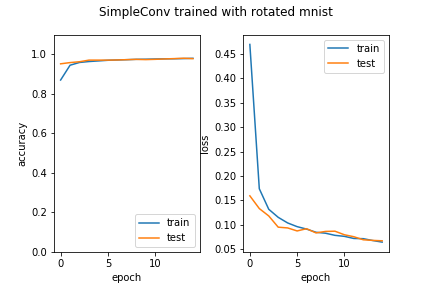
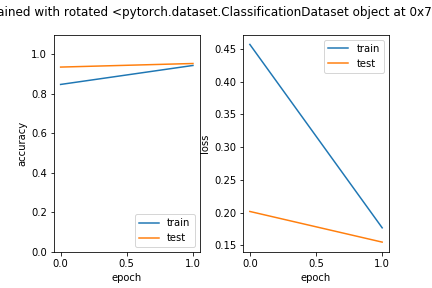
removed plots with wrong names

diff --git a/rotation/pytorch/experiment/rotation.py b/rotation/pytorch/experiment/rotation.py
@@ -15,7 +15,7 @@ from utils import autolabel
 TrainRotatedConfig = namedtuple('TrainRotatedConfig', 'dataset_name batch_size epochs pre_rotated_epochs rotated_epochs optimizer rotated_optimizer use_cuda')
 
 def run(config,model, rotated_model, x_train, y_train, x_test, y_test,
-                  plot_accuracy=False,loss_function=torch.nn.NLLLoss()):
+                  plot_accuracy=False,loss_function=torch.nn.NLLLoss(),save_plots=False):
 
     os.makedirs(experiment_plot_path(model.name, config.dataset_name),exist_ok=True)
     train_dataset,rotated_train_dataset=get_data_generator(x_train,y_train, config.batch_size)
@@ -29,7 +29,7 @@ def run(config,model, rotated_model, x_train, y_train, x_test, y_test,
         print("Training model with unrotated dataset...",flush=True)
         history = train(model,config.epochs,config.optimizer,config.use_cuda,train_dataset,test_dataset,loss_function)
         if plot_accuracy:
-            accuracy_plot_path =plot_history(history,"unrotated",model.name,config.dataset_name)
+            accuracy_plot_path =plot_history(history,"unrotated",model.name,config.dataset_name,save_plots)
 
     # ROTATED MODEL, UNROTATED DATASET
     if config.pre_rotated_epochs == 0:
@@ -39,7 +39,7 @@ def run(config,model, rotated_model, x_train, y_train, x_test, y_test,
         pre_rotated_history = train(rotated_model, config.rotated_epochs, config.rotated_optimizer, config.use_cuda,
                                 train_dataset,test_dataset,loss_function)
         if plot_accuracy:
-            plot_history(pre_rotated_history,"pre_rotated",model.name,config.dataset_name)
+            plot_history(pre_rotated_history,"pre_rotated",model.name,config.dataset_name,save_plots)
 
 
         # ROTATED DATASET
@@ -50,7 +50,7 @@ def run(config,model, rotated_model, x_train, y_train, x_test, y_test,
         rotated_history = train(rotated_model, config.rotated_epochs, config.rotated_optimizer, config.use_cuda,
                                 rotated_train_dataset,rotated_test_dataset,loss_function)
         if plot_accuracy:
-            rotated_accuracy_plot_path=plot_history(rotated_history,"rotated",rotated_model.name,config.dataset_name)
+            rotated_accuracy_plot_path=plot_history(rotated_history,"rotated",rotated_model.name,config.dataset_name,save_plots)
 
     print("Testing both models on both datasets...",flush=True)
 
@@ -58,7 +58,7 @@ def run(config,model, rotated_model, x_train, y_train, x_test, y_test,
     datasets = {"test_dataset": test_dataset, "rotated_test_dataset": rotated_test_dataset,
                  "train_dataset": train_dataset, "rotated_train_dataset": rotated_train_dataset}
     scores=eval_scores(models,datasets,config,loss_function)
-    train_test_path=train_test_accuracy_barchart2(scores,model,rotated_model,config)
+    train_test_path=train_test_accuracy_barchart2(scores,model,rotated_model,config,save_plots)
     experiment_plot = os.path.join("plots",f"{model.name}_{config.dataset_name}_train_rotated.png")
 
     os.system(f"convert {accuracy_plot_path} {rotated_accuracy_plot_path} {train_test_path} +append {experiment_plot}")
@@ -85,16 +85,16 @@ def write_scores(scores,output_file,general_message,config=None):
         f.write("\n\n")
 
 
-def train_test_accuracy_barchart2(scores,model,rotated_model,config):
+def train_test_accuracy_barchart2(scores,model,rotated_model,config,savefig):
     test_dataset_scores = [scores["model_test_dataset"][1], scores["rotated_model_test_dataset"][1]]
     rotated_test_dataset_scores = [scores["model_rotated_test_dataset"][1], scores["rotated_model_rotated_test_dataset"][1]]
     accuracies = np.array([test_dataset_scores, rotated_test_dataset_scores])
-    return train_test_accuracy_barchart(model.name, config.dataset_name, accuracies)
+    return train_test_accuracy_barchart(model.name, config.dataset_name, accuracies,savefig)
 
 def experiment_plot_path(model,dataset):
-    return f"plots/{model}/{dataset}"
+    return f"plots/{model}/{dataset.name}"
 
-def train_test_accuracy_barchart(model, dataset, accuracies,savefig=True):
+def train_test_accuracy_barchart(model, dataset, accuracies,savefig):
     import os
     # Accuracies:    |   Train unrotated   |   Train rotated
     # Test unrotated |                     |
@@ -134,7 +134,7 @@ def train_test_accuracy_barchart(model, dataset, accuracies,savefig=True):
     return path
 
 
-def plot_history(history,name,model_name,dataset_name):
+def plot_history(history,name,model_name,dataset_name,savefig):
     from time import gmtime, strftime
     t=strftime("%Y_%m_%d_%H_%M_%S", gmtime())
     import os
@@ -158,7 +158,8 @@ def plot_history(history,name,model_name,dataset_name):
     a2.legend(['train', 'test'], loc='upper right')
     f.suptitle(f"{model_name} trained with {name} {dataset_name}")
     plt.subplots_adjust(wspace=0.3)
-    plt.savefig(path)
+    if savefig:
+        plt.savefig(path)
     plt.show()
     return path
 

diff --git a/rotation/pytorch/experiment/invariance.py b/rotation/pytorch/experiment/invariance.py
@@ -18,24 +18,60 @@ def analyze_outputs(model,dataset,config):
     x,y=image_dataset.get_batch(a)
     print("batch",  x.shape,y)
 
-    def hook(module,input,output):
+    classes=np.unique(dataset.y_test.argmax(axis=1))
+    classes.sort()
+    print(classes)
 
+    def hook(module,input,output):
         print(f"hook for {module}, output: ",output.shape)
 
-    if config.use_cuda:
-        x=x.cuda()
+    n_intermediates=14
+    for i, c in enumerate(classes):
+        running_means = [RunningMeanAndVariance() for i in range(n_intermediates)]
+        if config.use_cuda:
+            x=x.cuda()
+        y2, intermediates = model.forward_intermediates(x)
+        for i,intermediate in enumerate(intermediates):
+            running_means[i].update(intermediate[i])
 
-    model.conv.register_forward_hook(hook)
-    model.fc.register_forward_hook(hook)
-    y2,intermediates=model.forward_intermediates(x)
+    # model.conv.register_forward_hook(hook)
+    # model.fc.register_forward_hook(hook)
+
     print(y2.shape,len(intermediates))
 
     # train_dataset, rotated_train_dataset = get_data_generator(dataset.x_train, dataset.y_train, config.batch_size)
     # test_dataset, rotated_test_dataset = get_data_generator(dataset.x_test, dataset.y_test, config.batch_size)
 
+class RunningMeanAndVariance:
 
+    def __init__(self):
+        self.n = 0
+        self.old_m = 0
+        self.new_m = 0
+        self.old_s = 0
+        self.new_s = 0
 
-    
+    def clear(self):
+        self.n = 0
 
+    def update(self, x):
+        self.n += 1
 
+        if self.n == 1:
+            self.old_m = self.new_m = x
+            self.old_s = 0
+        else:
+            self.new_m = self.old_m + (x - self.old_m) / self.n
+            self.new_s = self.old_s + (x - self.old_m) * (x - self.new_m)
 
+            self.old_m = self.new_m
+            self.old_s = self.new_s
+
+    def mean(self):
+        return self.new_m if self.n else 0.0
+
+    def variance(self):
+        return self.new_s / (self.n - 1) if self.n > 1 else 0.0
+
+    def standard_deviation(self):
+        return np.sqrt(self.variance())
